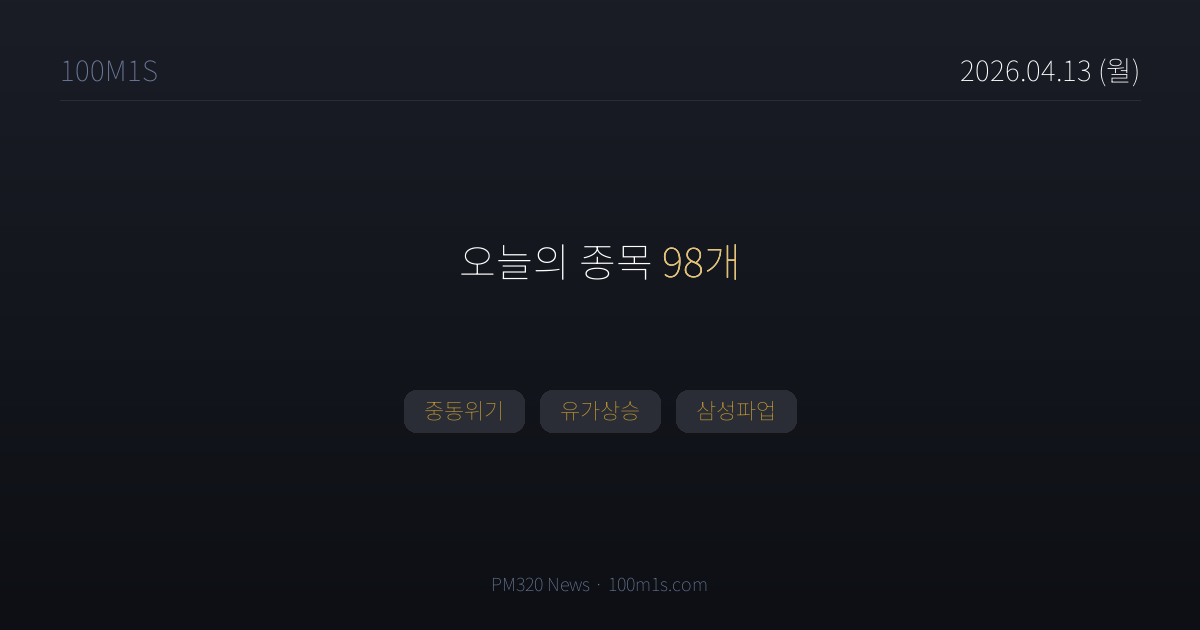
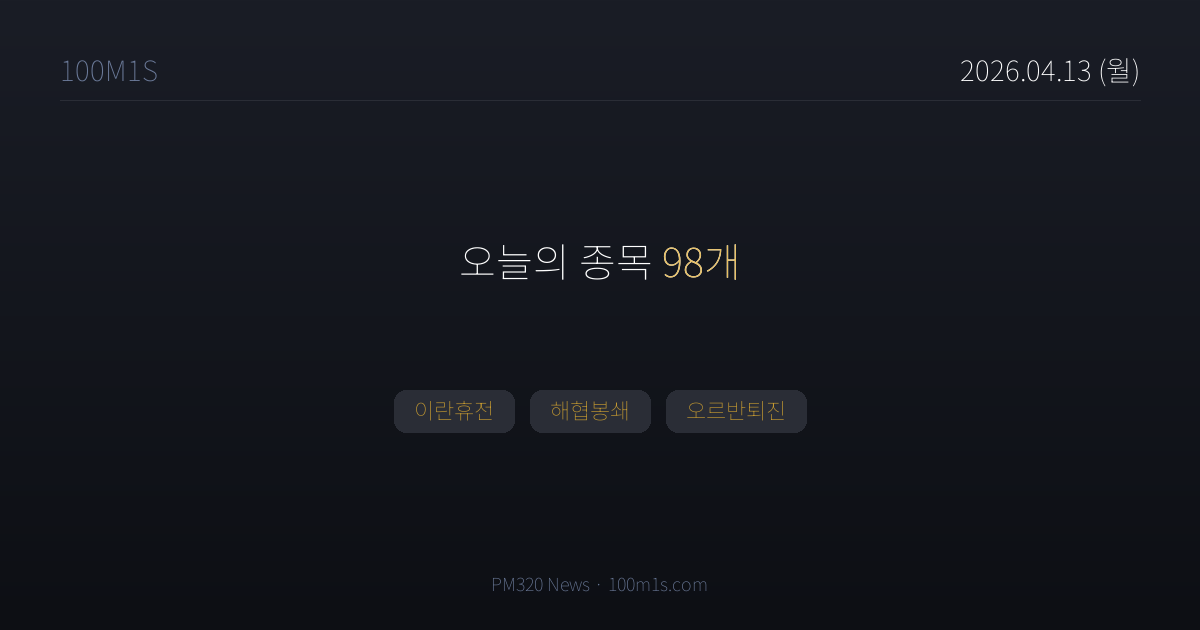
chore(news): 2026-04-13T06:33 pipeline

Changed region(s): [[0.3083, 0.6032, 0.6783, 0.6937]]

diff --git a/news/2026-04-13.html b/news/2026-04-13.html
@@ -4,7 +4,7 @@
 <meta charset="UTF-8">
 <title>4월 13일 (월) 뉴스 — 100M1S</title>
 <meta property="og:title" content="4월 13일 (월) · 종목 98개">
-<meta property="og:description" content="중동위기, 유가상승, 삼성파업">
+<meta property="og:description" content="이란휴전, 해협봉쇄, 오르반퇴진">
 <meta property="og:image" content="https://100m1s.com/og/2026-04-13.png">
 <meta property="og:image:width" content="1200">
 <meta property="og:image:height" content="630">
